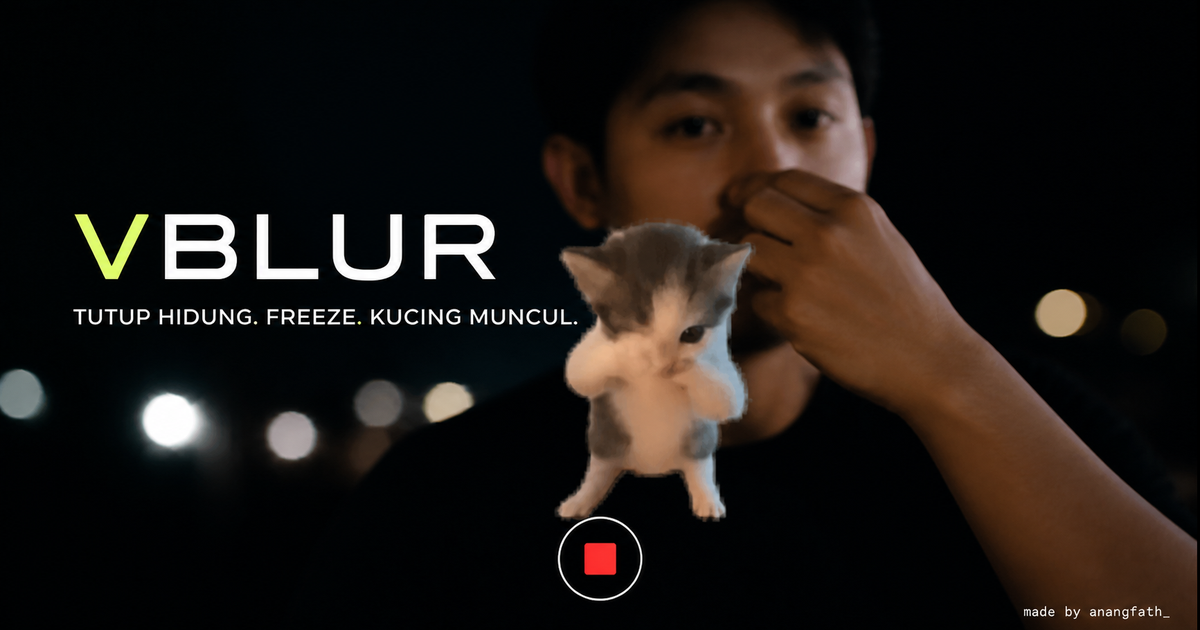
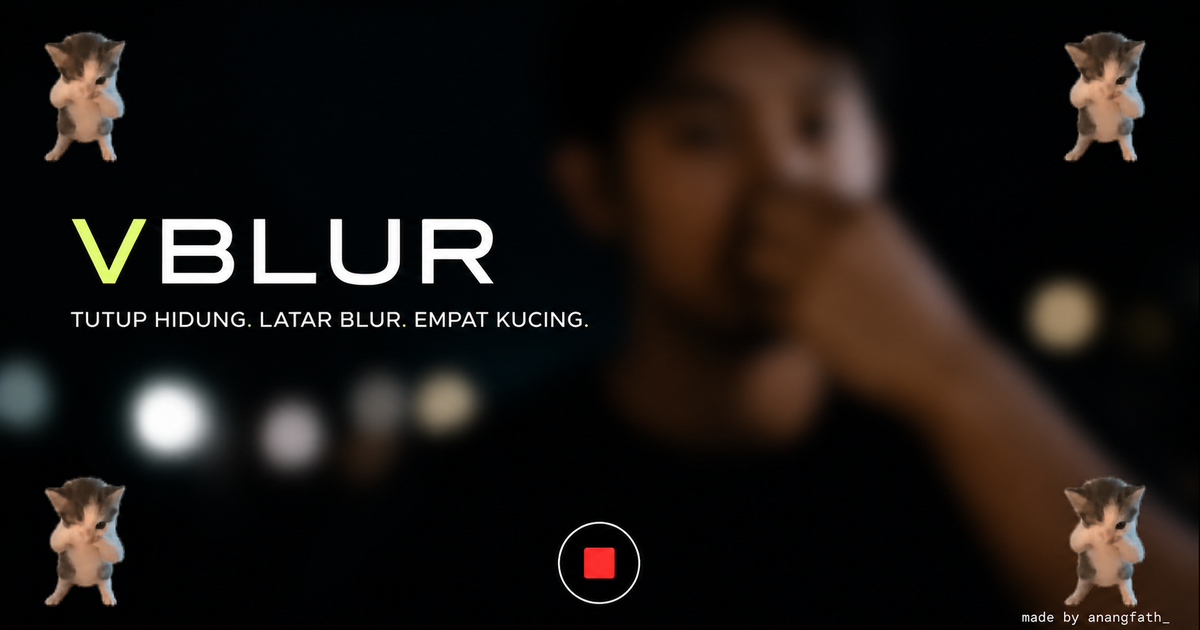
Move cat effect to screen corners

diff --git a/app/globals.css b/app/globals.css
@@ -59,21 +59,47 @@ button {
   background-position: center;
   background-repeat: no-repeat;
   background-size: cover;
-  transform: scaleX(-1) scale(1.02);
+  filter: blur(30px) saturate(0.72) brightness(0.68);
+  transform: scaleX(-1) scale(1.12);
 }
 
-.cat-effect {
+.cat-corners {
   position: absolute;
   z-index: 2;
-  left: 50%;
-  top: 48%;
-  width: min(42vw, 250px);
+  inset: 0;
+  pointer-events: none;
+}
+
+.cat-corner {
+  position: absolute;
+  width: clamp(105px, 16vw, 175px);
   aspect-ratio: 11 / 16;
-  transform: translate(-50%, -50%);
   background: url("/cat-nose.webp") center / contain no-repeat;
   filter: drop-shadow(0 14px 26px rgba(0, 0, 0, 0.42));
-  pointer-events: none;
   animation: cat-appear 220ms ease-out both;
+}
+
+.cat-corner--top-left {
+  top: max(10px, env(safe-area-inset-top));
+  left: max(10px, env(safe-area-inset-left));
+}
+
+.cat-corner--top-right {
+  top: max(10px, env(safe-area-inset-top));
+  right: max(10px, env(safe-area-inset-right));
+  animation-delay: 45ms;
+}
+
+.cat-corner--bottom-left {
+  bottom: max(10px, env(safe-area-inset-bottom));
+  left: max(10px, env(safe-area-inset-left));
+  animation-delay: 90ms;
+}
+
+.cat-corner--bottom-right {
+  right: max(10px, env(safe-area-inset-right));
+  bottom: max(10px, env(safe-area-inset-bottom));
+  animation-delay: 135ms;
 }
 
 .camera-toggle {
@@ -163,19 +189,18 @@ button {
 @keyframes cat-appear {
   from {
     opacity: 0;
-    transform: translate(-50%, -46%) scale(0.82);
+    transform: translateY(10px) scale(0.82);
   }
 
   to {
     opacity: 1;
-    transform: translate(-50%, -50%) scale(1);
+    transform: translateY(0) scale(1);
   }
 }
 
 @media (max-width: 520px) {
-  .cat-effect {
-    width: min(58vw, 230px);
-    top: 46%;
+  .cat-corner {
+    width: clamp(86px, 27vw, 122px);
   }
 }
 
@@ -190,7 +215,7 @@ button {
     animation: none;
   }
 
-  .cat-effect {
+  .cat-corner {
     animation: none;
   }
 }

diff --git a/app/page.tsx b/app/page.tsx
@@ -507,10 +507,15 @@ export default function Home() {
       )}
       {isNoseEffectActive && (
         <div
-          className="cat-effect"
+          className="cat-corners"
           role="img"
-          aria-label="Kucing menari"
-        />
+          aria-label="Empat kucing menari di setiap sudut"
+        >
+          <span className="cat-corner cat-corner--top-left" />
+          <span className="cat-corner cat-corner--top-right" />
+          <span className="cat-corner cat-corner--bottom-left" />
+          <span className="cat-corner cat-corner--bottom-right" />
+        </div>
       )}
       <audio
         ref={audioRef}

diff --git a/README.md b/README.md
@@ -17,8 +17,9 @@ Buka `http://localhost:3000`, izinkan akses kamera, lalu tunjukkan gesture V.
 Feed live akan blur selama gesture terlihat dan kembali jernih saat tangan
 diturunkan. Tombol bulat di tengah bawah dapat digunakan untuk mematikan atau
 menyalakan kamera. Saat tangan menutup hidung, tayangan akan membeku sementara,
-menampilkan animasi kucing dan memainkan suara, lalu kamera kembali normal
-setelah audio selesai. Tampilan tidak merekam atau menyimpan video maupun foto.
+memburamkan latar, menampilkan animasi kucing di keempat sudut, dan memainkan
+suara. Kamera kembali normal setelah audio selesai. Tampilan tidak merekam atau
+menyimpan video maupun foto.
 
 ## Menjalankan dengan Docker
 
